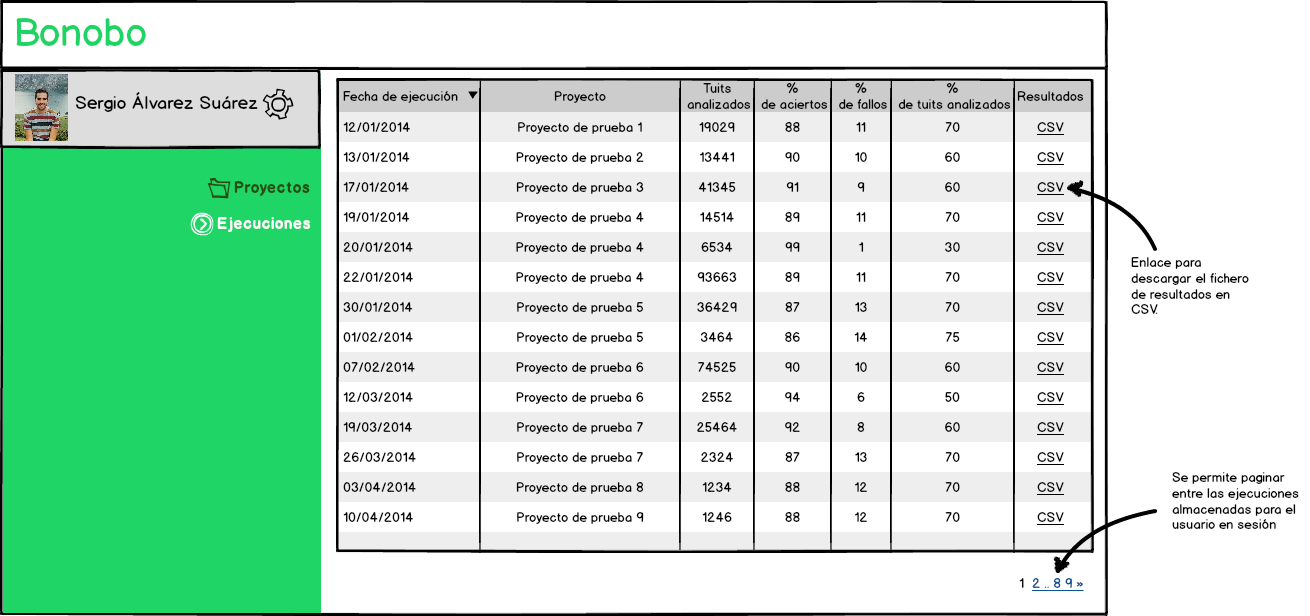
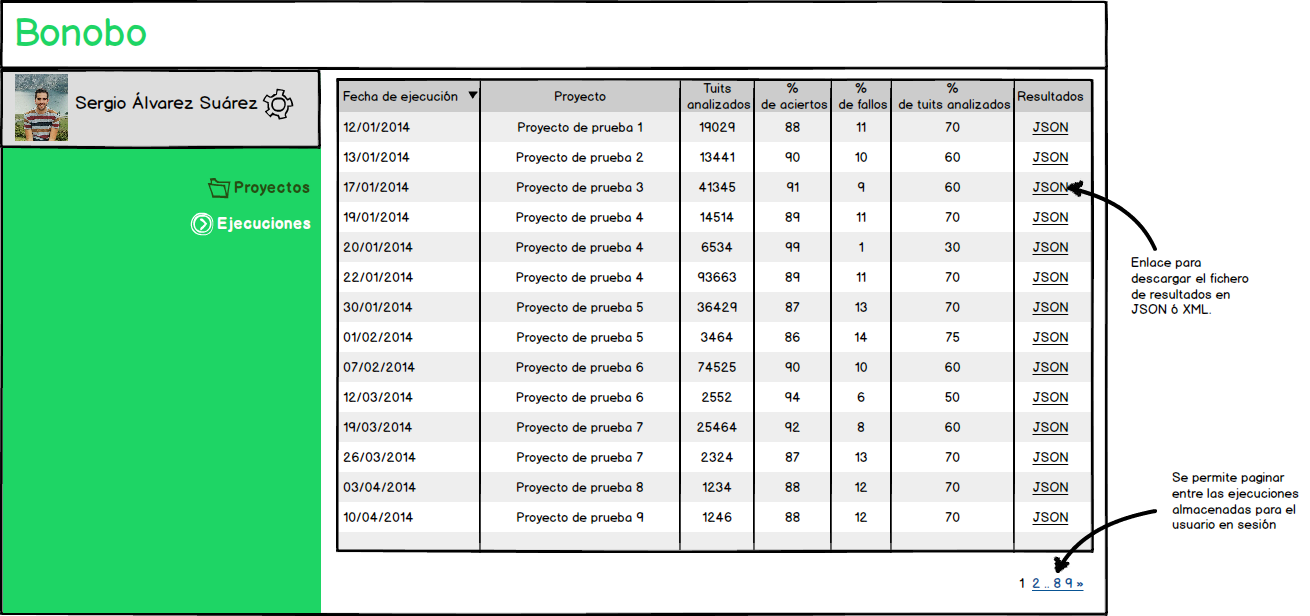
Add info about mockups

diff --git a/out/main.html b/out/main.html
@@ -2833,11 +2833,37 @@ reader.foreach({
 </div>
 <div class="sect3">
 <h4 id="_diseño_de_em_mockups_em_para_interfaces_de_usuario">4.1.5. Diseño de <em>mockups</em> para interfaces de usuario</h4>
+<div class="paragraph">
+<p>Con el objetivo de crear una interfaz completamente funcional y sencilla de utilizar para el usuario, se han generado una serie de <em>mockups</em> que podrían ayudar en el diseño final de la aplicación.</p>
+</div>
+<div class="paragraph">
+<p>La idea principal es mantener una interfaz de usuario con poco ruido, que muestre únicamente aquellas opciones básicas que el usuario pueda necesitar para realizar cada acción y teniendo en mete que en el futuro se podrían ofrecer operaciones más avanzadas para usuarios especializados utilizando para ello mecanismos más sofisticados.</p>
+</div>
+<div class="paragraph">
+<p>A continuación se muestran un conjunto de <em>mockups</em> para las páginas con una mayor importancia para los usuarios.</p>
+</div>
+<div class="sect4">
+<h5 id="_pantalla_de_inicio_y_login_de_la_aplicación">Pantalla de inicio y login de la aplicación</h5>
+<div class="paragraph">
+<p>La pantalla de inicio de la aplicación consta de un formulario central donde el usuario deberá introducir sus credenciales si desea poder acceder a su panel de administración.</p>
+</div>
+<div class="paragraph">
+<p>En caso de no tener una cuenta de usuario, se le informa del mecanismo que debe seguir si desea crear una (en este caso, hacer <em>click</em> sobre el enlace informativo).</p>
+</div>
+<div class="paragraph">
+<p>Esta pantalla se mostrará tanto en la página raíz del sitio web para aquellos usuarios sin identificación en el sistema, como cada vez que se intente acceder a una página interior sin haberse identificado previamente.</p>
+</div>
 <div class="imageblock" style="text-align: center">
 <div class="content">
 <img src="../assets/application/mockup/home.png" alt="home">
 </div>
 <div class="title">Figure 12. Pantalla de login de la aplicación.</div>
+</div>
+</div>
+<div class="sect4">
+<h5 id="_pantalla_del_dashboard_de_proyectos">Pantalla del dashboard de Proyectos</h5>
+<div class="paragraph">
+<p>La pantalla de administración para gestionar el conjunto de proyectos de un usuario se ha diseñado de tal manera que permita navegar de manera sencilla sobre el histórico de Proyectos, así como disponer de un acceso rápido para crear uno nuevo.</p>
 </div>
 <div class="imageblock" style="text-align: center">
 <div class="content">
@@ -2845,11 +2871,57 @@ reader.foreach({
 </div>
 <div class="title">Figure 13. Pantalla que muestra el dashboard del usuario en la sección de proyectos</div>
 </div>
+<div class="paragraph">
+<p>La sección que muestra la información sobre cada proyecto, aglutina también un pequeño resumen con sus características principales:</p>
+</div>
+<div class="olist arabic">
+<ol class="arabic">
+<li>
+<p>Nombre</p>
+</li>
+<li>
+<p>Fecha de ejecución</p>
+</li>
+<li>
+<p>Idioma</p>
+</li>
+<li>
+<p>Localización global</p>
+</li>
+<li>
+<p>Localización local</p>
+</li>
+<li>
+<p>Términos a monitorizar</p>
+</li>
+</ol>
+</div>
+<div class="paragraph">
+<p>Además, el color de fondo que acompaña cada sección informa de si el proyecto se puede ejecutar en ese momento (fondo verde y botón para <strong>ejecutar ahora</strong>) o si su fecha de ejecución ya ha pasado (color de fondo rojo).</p>
+</div>
+<div class="paragraph">
+<p>En la parte superior derecha de cada Proyecto, se presenta un acceso rápido para realizar una edición de sus características.</p>
+</div>
+</div>
+<div class="sect4">
+<h5 id="_pantalla_del_dashboard_de_ejecuciones">Pantalla del dashboard de Ejecuciones</h5>
+<div class="paragraph">
+<p>En el caso del panel de administración de las Ejecuciones de usuario, se muestra una tabla paginada a modo de histórico desde la que es posible consultar los detalles generales de la ejecución así como obtener un enlace a su fichero de resultados.</p>
+</div>
 <div class="imageblock" style="text-align: center">
 <div class="content">
 <img src="../assets/application/mockup/dashboard-executions.png" alt="dashboard executions">
 </div>
 <div class="title">Figure 14. Pantalla que muestra el dashboard del usuario en la sección de ejecuciones</div>
+</div>
+</div>
+<div class="sect4">
+<h5 id="_pantallas_para_la_creación_de_un_nuevo_proyecto">Pantallas para la creación de un nuevo Proyecto</h5>
+<div class="paragraph">
+<p>Las siguientes imágenes muestran un conjunto de <em>lightboxes</em> que contienen el <em>wizard</em> propuesto para la creación de un nuevo proyecto. La primera imagen contiene el paso número uno, en donde se insertan las características principales del proyecto como su <strong>nombre</strong>, <strong>idioma</strong> o <strong>términos a monitorizar</strong>.</p>
+</div>
+<div class="paragraph">
+<p>Los pasos dos y tres, muestran un mapa en el que el usuario podrá dibujar de manera guiada rectángulos que actuarán como <em>bounding boxes</em> para indicar las áreas local y global sobre las que realizar la ejecución. Un ejemplo real con la interfaz propuesta se puede observar en la aplicación web B2pick (ver <a href="#_b2pick_aplicación_web_para_seleccionar_em_bounding_boxes_em">B2pick, aplicación web para seleccionar <em>bounding boxes</em></a>).</p>
 </div>
 <div class="imageblock" style="text-align: center">
 <div class="content">
@@ -2857,11 +2929,21 @@ reader.foreach({
 </div>
 <div class="title">Figure 15. Lightboxes de creación de un nuevo proyecto</div>
 </div>
+</div>
+<div class="sect4">
+<h5 id="_pantalla_de_ejecución">Pantalla de Ejecución</h5>
+<div class="paragraph">
+<p>Por último, la pantalla de ejecución será el lugar en el que el usuario podrá ejecutar en tiempo real un proyecto y observar qué resultados consigue rescatar. Su objetivo principal es ser lo más dinámica y flexible posible para permitir al usuario obtener información inmediata de los resultados de la ejecución. Por tanto, se establecen dos columnas a los laterales de la pantalla (<strong>Dentro</strong> y <strong>Fuera</strong>) donde se irán colocando los tuits que se reciban en función de la localización inferida por el clasificador (se colocarán en la columna de <strong>Dentro</strong> aquellos tuits que el clasificador considere que pertenecen al <strong>área local</strong> y viceversa).</p>
+</div>
+<div class="paragraph">
+<p>Los controles centrales permitirán iniciar y detener la ejecución, y el <em>spinner</em> inferior permitirá al usuario establecer el nivel de confianza que requiere por parte del sistema para etiquetar un tuit como local. Si se indica que el sistema deba tener un grado de confianza muy alto, los resultados para la columna de <strong>Dentro</strong> serán muchos menos, pero su precisión será mucho más elevada.</p>
+</div>
 <div class="imageblock" style="text-align: center">
 <div class="content">
 <img src="../assets/application/mockup/execution.png" alt="execution">
 </div>
 <div class="title">Figure 16. Pantalla de ejecución de un proyecto en tiempo real</div>
+</div>
 </div>
 </div>
 </div>
